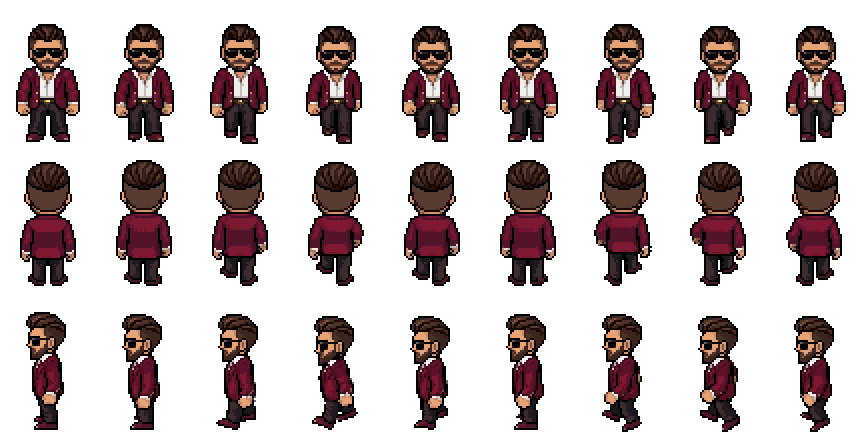
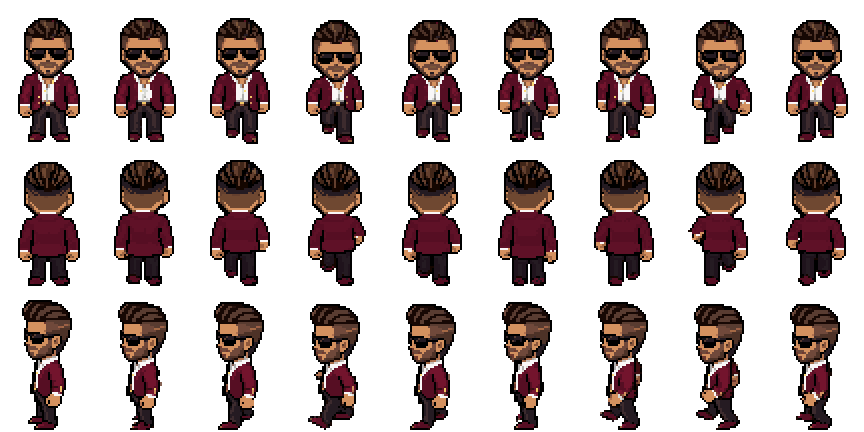
Redraw $cott's field sprite to match the cast's proportions (v0.27.0)
His first field sprite was about 5.5-6 heads tall with the smallest
head in the cast (20 art px wide against 24-34), and its size changed
between views (22 from behind). Next to the NPCs it read as a small
head that grew when he turned.

- New front view from create_image_pro with his battle art for
  identity and Chad's, Derek's and Brad's frames for proportions:
  62 art px tall, head 24 wide.
- Back view drawn to match the front exactly (a plain rotation came
  out 5 px taller); PixelLab's v3 rotation filled in the sides.
- Walk rebuilt on it (walking-8-frames, skeleton-v3) with walker.py.
- walker.py keeps the real standing pose unless the walk differs by
  more than two art pixels, so his idle facing north isn't a mid-step
  frame.

Claude-Session: https://claude.ai/code/session_019jCMUaTHqZ2CWnnVZca1Tz

diff --git a/src/version.js b/src/version.js
@@ -3,7 +3,7 @@
 // for fixes. Since it loads with the rest of the game code, a stale version
 // on screen means the browser is still running a cached copy.
 
-export const VERSION = '0.26.2';
+export const VERSION = '0.27.0';
 export const RELEASED = '2026-10-18';
 
 const MONTHS = ['Jan', 'Feb', 'Mar', 'Apr', 'May', 'Jun', 'Jul', 'Aug', 'Sep', 'Oct', 'Nov', 'Dec'];

diff --git a/tools/region-art/walker.py b/tools/region-art/walker.py
@@ -28,8 +28,8 @@ y 141 (the template's feet line):
 - A cycle on a bigger canvas than its rotation (PixelLab's skeleton-v3 mode
   draws on 96×96) is cut down to the rotation's size, heads over the
   rotation's and feet on its line.
-- A view whose rotation stands taller or shorter than its walk (more than an
-  art pixel) stands on the walk's feet-together frame instead, so starting
+- A view whose rotation stands taller or shorter than its walk (more than two
+  art pixels) stands on the walk's feet-together frame instead, so starting
   and stopping don't pop.
 
 A character without a walk yet gets its idle in every column.
@@ -168,7 +168,7 @@ def main(char_id, key, anim='walk'):
         # A rotation drawn taller than its walk (PixelLab's side view can stand 3 art px taller than
         # it walks) would pop up and down at every start and stop: stand on the cycle's own feet-together frame.
         tall = lambda im: lowest(im) - im.getbbox()[1]
-        if walk and abs(tall(idle) - sorted(map(tall, cycle))[n // 2]) > 1:
+        if walk and abs(tall(idle) - sorted(map(tall, cycle))[n // 2]) > 2:
             idle = min(cycle, key=legs_width)
             print(f'  {ROWS[r][0]}: idle from the walk (the rotation stands {tall(idles[r]) - tall(idle):+d} art px taller)')
         lows = [lowest(f) for f in cycle]

diff --git a/CLAUDE.md b/CLAUDE.md
@@ -369,7 +369,7 @@ For the walkable regions (§6.6). Characters, props, and the swamp's ground tile
 - A sheet of **96×144 px frames, 3 rows.** Rows face down, up, and left. Columns are idle, then the walk cycle: **8 frames** for $cott (PixelLab's `walking-8-frames` in `skeleton-v3` mode: each step lands, dips, passes and rises, with the arms swinging, drawn at exactly his standing size), 4 in the older sheets (contact, passing, other contact, passing). The game reads the column count off the image (`sheetCols` in `systems/fieldArt.js`). Right-facing is the left row mirrored in-engine; add a 4th row only if the character is lopsided (a bag on one shoulder, say).
 - The character stands about **120–130 px tall**, feet at the bottom center of each frame, on a transparent background.
 - True pixel grid and a dark outline, like the battle sprites. Density: **2 screen px per art pixel**, so each frame is **48×72 art pixels**, drawn at 2×, and the character is about 62 art pixels tall. At 3 px (32×48 art pixels) every generator drew him chibi, under 3 heads tall; 2 px leaves room for about 4 heads. The outline is 2 px, not 3.
-- **Built: $cott and Derek** (`assets/field/field_scott.png`, `field_derek.png`), made in PixelLab from their battle art, plus the swamp locals (`field_brad.png`, `field_morgan.png`, `field_chad.png`), made from text with $cott and Derek as the style reference. Velvet Vinny and Whale Wendy (`field_vinny.png`, `field_wendy.png`, idle only) were made the same way for the Swamp Yacht Club. The recipe is in `docs/field-art-prompts.md`; `tools/region-art/walker.py` turns a PixelLab character into a sheet.
+- **Built: $cott and Derek** (`assets/field/field_scott.png`, `field_derek.png`), made in PixelLab from their battle art (**$cott redrawn in v0.27.0** to the cast's chunkier proportions: about 4 heads tall, a head 24 art px wide in every view, where his first sprite's was 20 and swung between views; recipe in `docs/field-art-prompts.md`), plus the swamp locals (`field_brad.png`, `field_morgan.png`, `field_chad.png`), made from text with $cott and Derek as the style reference. Velvet Vinny and Whale Wendy (`field_vinny.png`, `field_wendy.png`, idle only) were made the same way for the Swamp Yacht Club. The recipe is in `docs/field-art-prompts.md`; `tools/region-art/walker.py` turns a PixelLab character into a sheet.
 - **Feet on one line** (y 141 of the 144 px cell, the same for every character). PixelLab's old `walking-4-frames` frames aren't anchored: the lowest foot drifts several pixels from frame to frame, which made $cott bob up off his shadow as he walked, worst walking north; `walker.py` seats each of those frames on the line (`tools/region-art/feet.py <key> …` does it to an existing sheet). A registered cycle (`walking-8-frames`, every frame's feet within an art pixel) moves as a whole instead, so its weight shift survives. **The walk bob is designed, not inherited:** `walker.py` holds the head at one height and dips the upper body one art pixel on the two frames after each foot lands (found where the side view's legs spread widest), the classic pixel-art bob; a 4-frame cycle gets none, since a dip on every other frame reads as a march. A rotation that stands taller than its walk is swapped for the walk's feet-together frame, so starting and stopping don't pop. A frame whose head came out unlike the rest (turned, a darker beard) gets the rotation's head instead, since one odd frame flickers at walking speed (his side view had one). Idle-action clips are lined up on a sheet's idle frames, so re-run `tools/region-art/idle.py <name> …` after re-seating a character who has one.
 - NPCs who only stand still need just the idle column (the down row, plus left if they turn to face $cott).
 - **Built: Lil' Turnt's follower sheet** (`field_lilturnt.png`): a kitten on all fours, about 66 px tall, in the same 96×144 frames. A front view from `create_image_pro` at 48×48 (her battle art as the identity reference, $cott's frame as the style image), rotated by `create_character` as a **quadruped** (`template: "cat"`), with PixelLab's cat `walk-4-frames`. `walker.py` sits any frame size on the feet line.
@@ -454,6 +454,7 @@ For the walkable regions (§6.6). Characters, props, and the swamp's ground tile
 - **Regions have a time of day and weather** (§6.6): the light is a grade, a low sun's wash, haze and a vignette, worked out from blended phases of the day, with fog, rain and storms faded in on top; props carry their own shadows, glows and puffs. Picked after a side-by-side review of three fixed looks (toxic dusk, green fog, neon night): dusk and fog won, so the day runs through a lighter dusk with a golden-hour sunset, and the fog became white. Light is drawn procedurally (a multiply grade, additive glows) rather than with Phaser's WebGL-only lights, so Canvas (the smoke test) and phones look the same.
 - **The swamp's ground got variety, and things move** (§6.6): noise patches and themed litter break up the big flat fields (the swamp's biggest visual problem after the lighting), trees and reeds sway with the weather's wind, and anyone standing still breathes. Motion is baked into extra frames on the art's pixel grid (row shifts, a one-pixel dip) rather than scaled or skewed, so it stays crisp on Canvas and WebGL.
 - **Walking is paced by distance, with an 8-frame cycle** (§6.6, §8.4): $cott's 4-frame walk at a fixed 8 fps read as marching (4 steps a second, knee lifts, feet sliding three times their stride, and once the feet were pinned to the ground a head that bounced every frame). Now his steps follow how far he moves, he walks a little slower (260 px/s, about 2.9 steps a second), and his sheet is PixelLab's `walking-8-frames` with a designed one-pixel bob. Picked over re-registering the old frames, which can't fix march poses. The walk comes from its `skeleton-v3` mode, which poses the character's own art: the plain template redrew his side view about 15% smaller (a head 16 art px wide instead of 20), which showed next to everyone else.
+- **$cott's field sprite matches the cast** (§8.4): his first was drawn about 5.5–6 heads tall with the smallest head of anyone (20 art px against 24–34), and its size changed between views, which stood out next to every NPC. He was redrawn chunkier from his battle art with the cast's front frames as the proportion reference, the back view drawn to match the front exactly rather than rotated (rotation stretched it 5 px taller), and the walk rebuilt on it.
 - **Trees go see-through and the foreground has depth** (§6.6): a prop in front of $cott fades when his body is on its painted pixels, and dark branches and reeds drift across the top and bottom of the screen faster than the ground. The foreground moves sideways only and stays in its bands: full parallax sent branches sweeping down over $cott whenever the camera moved north.
 - **Map edges are cliffs with a view** (§6.6): a drop terrain cuts the ground away, and the land beyond is parallax layers of procedural silhouettes recolored by the clock, instead of a hard reed border. The swamp's top edge looks out on a city skyline. Silhouettes are drawn in code rather than generated, so they tile sideways and take any color the sky needs.
 - **The hub gets a cardboard neighborhood** (§6.6): people standing around in the woods looked odd, so the hot-tub plaza is ringed with fake-luxury buildings made of boxes and duct tape, broke stonk bros trying to look rich. They're ordinary props (`prop_cb_*`), so the map editor can move or reuse them.

diff --git a/docs/field-art-prompts.md b/docs/field-art-prompts.md
@@ -48,7 +48,9 @@ Claude Code can run PixelLab directly through its MCP server (`.mcp.json`). $cot
 4. **Walk.** `animate_character(template_animation_id="walking-8-frames", mode="skeleton-v3", directions=["south","north","west"])` (3 generations a direction). Skeleton mode poses the character's own art, so every frame is the same size as the rotation; the plain template mode redrew $cott's side view about 15% smaller, head and all. Its frames are registered (feet within an art pixel), with real strides and arm swing, on a 96×96 canvas that `walker.py` cuts down to 48×72. `walking-4-frames` (the first sheets) drifts and marches, and `walking-6-frames` came out with stray pixels on the back view.
 5. **Assemble.** `python3 tools/region-art/walker.py <character id> <texture key> [<animation name>]` downloads the character, scales each 48×72 frame 2× with nearest-neighbor, lays the frames out down/up/left × idle + the walk cycle, puts the feet on y 141 (the template's red line), and gives an 8-frame cycle its one-pixel bob (CLAUDE.md §8.4). The animation is `walk` unless named: $cott's is `walk8_skeleton`. Without one, the idle fills four walk columns, which is enough for an NPC who stands still.
 
-PixelLab characters, for adding animations later (a talk pose, say): $cott is `9a98e7a2-fda8-4b7b-a119-66ec4547c71a` ("$cott Money (field)"), Derek is `8dced960-d408-466f-9ce3-0ff8a4674c48` ("Diamond Hands Derek (field)"); the swamp locals are Brad `dcf60765-250c-4726-812c-e2c68a066b1c`, Morgan `f1dc4015-b73e-458d-a16b-31ca31267f26`, and Chad `bb256da2-c9bc-4c82-99c9-b91d52d3580d`; the Swamp Yacht Club's Velvet Vinny `482eff64-6483-4ed2-a825-7e4ace71d791` and Whale Wendy `186eb49e-d500-46ed-a6e3-ca99d072c61f` (idle only, front views picked from `create_image_pro` at 48×72 with $cott, Chad and Derek as references). NPCs without their own battle art start from a text description in step 1, with $cott and Derek attached as style references.
+**$cott's second sprite (v0.27.0), matched to the cast.** His first sprite was drawn about 5.5–6 heads tall, with a head 20 art px wide; everyone made after him came out chunkier (heads 24–34), so next to them his head looked small and its size swung between views. The redo: `create_image_pro` at 48×72 with his battle art (identity), his old field frame (outfit, palette) and a strip of Chad's, Derek's and Brad's front frames ("body proportions and head size to match") as references and Chad's frame as the style image (outline, detail, shading), asking for "chunky stylized proportions about 4 heads tall, with a big head like the other characters". All 16 candidates came out 62 art px tall with 24 px heads; #0 (straight-on, arms down) became south. Rotating it alone gave back and side views 5 px taller, so a second `create_image_pro` call drew the back view from the front ("exactly the same size, proportions, head size and height"; all 16 matched), and `create_character(mode="v3", n_directions=4, reference_image_url=<front>, direction_images={"north": <back>})` filled in the sides (head 24 wide, 3 px taller for the pompadour in profile). Then the step 4 walk. Sources: `tools/region-art/scott/`.
+
+PixelLab characters, for adding animations later (a talk pose, say): $cott is `a70973d3-6292-4e94-9746-54d27237383c` ("$cott Money (field, v2b)"; his first, slimmer sprite was `9a98e7a2-fda8-4b7b-a119-66ec4547c71a`), Derek is `8dced960-d408-466f-9ce3-0ff8a4674c48` ("Diamond Hands Derek (field)"); the swamp locals are Brad `dcf60765-250c-4726-812c-e2c68a066b1c`, Morgan `f1dc4015-b73e-458d-a16b-31ca31267f26`, and Chad `bb256da2-c9bc-4c82-99c9-b91d52d3580d`; the Swamp Yacht Club's Velvet Vinny `482eff64-6483-4ed2-a825-7e4ace71d791` and Whale Wendy `186eb49e-d500-46ed-a6e3-ca99d072c61f` (idle only, front views picked from `create_image_pro` at 48×72 with $cott, Chad and Derek as references). NPCs without their own battle art start from a text description in step 1, with $cott and Derek attached as style references.
 
 ### Ground and props (how the Subreddit Swamps was made)
 
